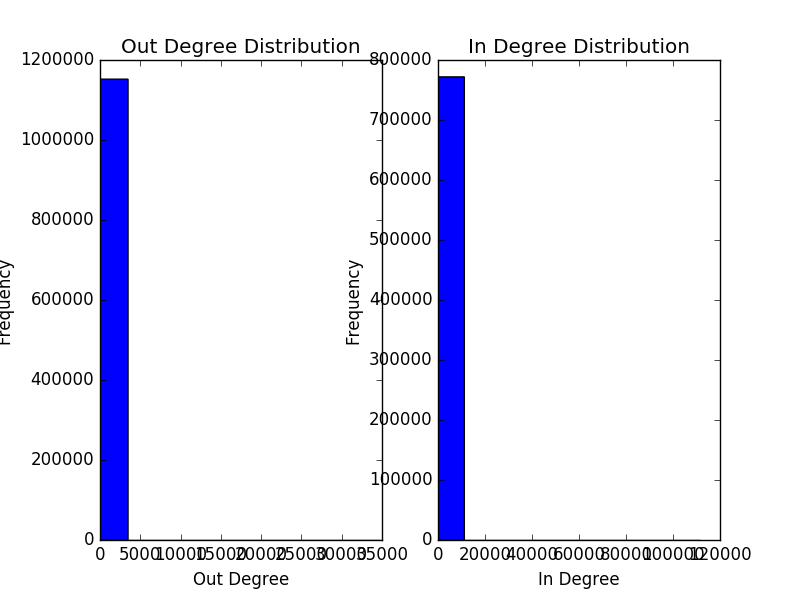
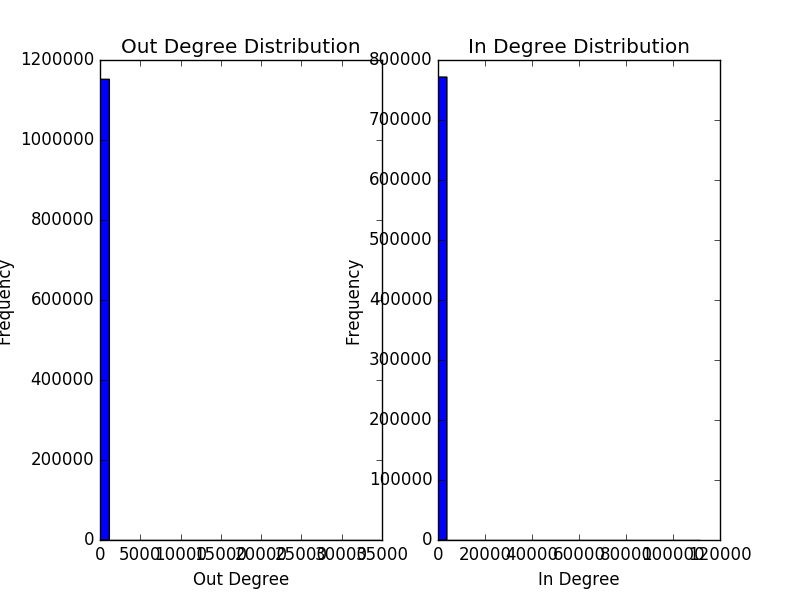
good luck

Changed region(s): [[0.5312, 0.12, 0.5938, 0.9], [0.125, 0.12, 0.1875, 0.9]]

diff --git a/Model/FeatureExtraction/fieldExtract.py b/Model/FeatureExtraction/fieldExtract.py
@@ -6,10 +6,10 @@ from pyspark.ml.linalg import SparseVector, VectorUDT
 
 class FieldExtract():
     def __init__(self, pid_2_fields_index_file, fields_2_index_file):
-        self.pid_2_index_file = pid_2_index_file
+        self.pid_2_field_index_file = pid_2_fields_index_file
         self.fields_2_index_file = fields_2_index_file
 
     def build_feild_map(self, sc):
-        rdd_pid_2_index = sc.textFile(self.pid_2_index_file)
-        rdd_field_index_file = sc.textFile(self.fields_2_index_file)
-        rdd_field_index_file.
+        rdd_pid_2_field_index = sc.textFile(self.pid_2_field_index_file)
+        rdd_fields_2_index = sc.textFile(self.fields_2_index_file)
+

diff --git a/PrerequisiteAnalysis/prerequiteAnalysis.py b/PrerequisiteAnalysis/prerequiteAnalysis.py
@@ -89,12 +89,14 @@ if __name__ == "__main__":
     out_degree_arr, in_degree_arr = prerequisite_analysis.degree_distribution(sc, '2016-06-30')
     #plt.figure()
     plt.subplot(121)
+    print max(out_degree_arr)
     plt.hist(out_degree_arr, 30, range=[min(out_degree_arr)-1, max(out_degree_arr)+1])
     plt.title("Out Degree Distribution")
     plt.xlabel("Out Degree")
     plt.ylabel("Frequency")
 
     plt.subplot(122)
+    print max(in_degree_arr)
     plt.hist(in_degree_arr, 30, range=[min(in_degree_arr)-1, max(in_degree_arr)+1])
     plt.title("In Degree Distribution")
     plt.xlabel("In Degree")
